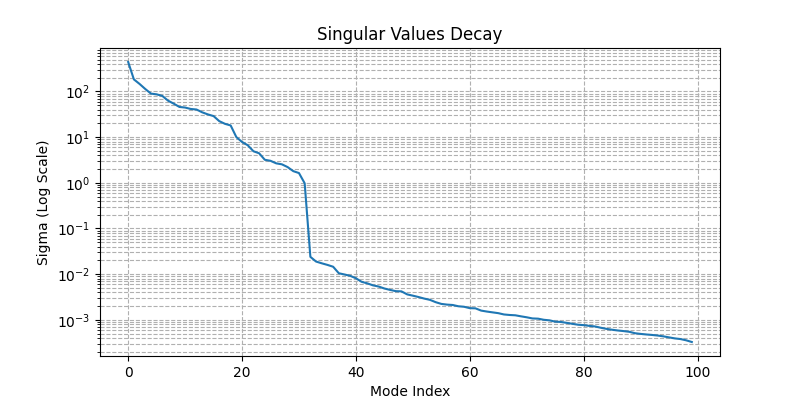
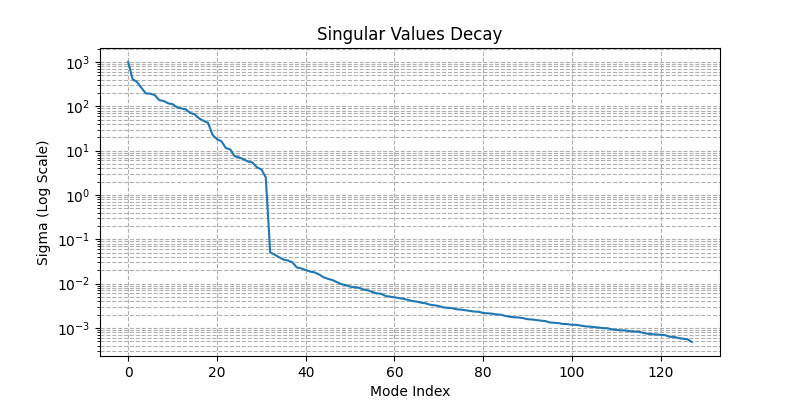
new dataset

Changed region(s): [[0.0625, 0.12, 0.9062, 0.96]]

diff --git a/wave_2D_matlab_reference.m b/wave_2D_matlab_reference.m
@@ -8,8 +8,8 @@ tlist = linspace(0, t_f, 100);   % Nt time steps
 Nt = numel(tlist);
 
 % Dataset parameters
-N_samples = 100;                  % randomized ICs
-Nx = 50; Ny = 50;               % uniform query grid
+N_samples = 128;                  % randomized ICs
+Nx = 100; Ny = 100;               % uniform query grid
 K = 4; L = 4;                     % Fourier modes for IC synthesis
 
 % Grids for storage and visualization
@@ -44,8 +44,9 @@ specifyCoefficients(model, m = m, d = d * results.M, c = wave_speed^2, a = a, f 
 
 mesh = model.Mesh;
 
-% Preallocate storage for displacement over space-time for all samples
+% Preallocate storage for displacement and velocity over space-time for all samples
 U_data = zeros(Nx, Ny, Nt, N_samples);
+V_data = zeros(Nx, Ny, Nt, N_samples);
 
 cpu_time_start = cputime;
 for sample_id = 1:N_samples
@@ -61,6 +62,27 @@ for sample_id = 1:N_samples
         u_grid = interpolateSolution(result, Xq(:), Yq(:), ti);
         U_data(:, :, ti, sample_id) = reshape(u_grid, Ny, Nx)';
     end
+    
+    % Compute velocity via temporal finite differences on displacement
+    for ti = 1:Nt
+        if ti == 1
+            % Forward difference for first time step
+            u_curr = reshape(interpolateSolution(result, Xq(:), Yq(:), ti), Ny, Nx)';
+            u_next = reshape(interpolateSolution(result, Xq(:), Yq(:), ti+1), Ny, Nx)';
+            v_grid = (u_next - u_curr) / (tlist(ti+1) - tlist(ti));
+        elseif ti == Nt
+            % Backward difference for last time step
+            u_curr = reshape(interpolateSolution(result, Xq(:), Yq(:), ti), Ny, Nx)';
+            u_prev = reshape(interpolateSolution(result, Xq(:), Yq(:), ti-1), Ny, Nx)';
+            v_grid = (u_curr - u_prev) / (tlist(ti) - tlist(ti-1));
+        else
+            % Central difference for interior time steps
+            u_next = reshape(interpolateSolution(result, Xq(:), Yq(:), ti+1), Ny, Nx)';
+            u_prev = reshape(interpolateSolution(result, Xq(:), Yq(:), ti-1), Ny, Nx)';
+            v_grid = (u_next - u_prev) / (tlist(ti+1) - tlist(ti-1));
+        end
+        V_data(:, :, ti, sample_id) = v_grid;
+    end
 
     fprintf('Finished sample %d/%d\n', sample_id, N_samples);
 end
@@ -68,7 +90,7 @@ cpu_time_end = cputime - cpu_time_start
 
 % Save dataset to script directory
 script_dir = fileparts(mfilename('fullpath'));
-save(fullfile(script_dir, 'data', 'test_cases.mat'), 'U_data', 'x_grid', 'y_grid', 'tlist', '-v7.3');
+save(fullfile(script_dir, 'data', 'test_cases.mat'), 'U_data', 'V_data', 'x_grid', 'y_grid', 'tlist', '-v7.3');
 
 % Visualize three random samples at mid time
 mid_idx = round(Nt / 2);

diff --git a/pretrain_trunk.py b/pretrain_trunk.py
@@ -42,13 +42,34 @@ sys.stderr = sys.stdout
 
 # --- CONFIGURATION ---
 SVD_PATH = os.path.join(SCRIPT_DIR, 'data', 'svd_basis_data.npy')
-MODEL_SAVE_PATH = os.path.join(LOG_DIR, 'pretrained_trunk_p64.pth')
-RANK = 64                # We limit to 64 for this test run
+MODEL_SAVE_PATH = os.path.join(LOG_DIR, 'pretrained_trunk_p128.pth')
+RANK = 128                # We limit to 128 for this test run
 TRUNK_HIDDEN = 300       # Hidden layer size for Trunk
 TRUNK_N_LAYERS = 6       # Number of hidden layers
 BATCH_SIZE = 10000       # Large batch for fast training
 EPOCHS = 2000
 LR = 1e-3
+
+# Save configuration to log directory
+config_dict = {
+    'timestamp': timestamp,
+    'svd_path': SVD_PATH,
+    'model_save_path': MODEL_SAVE_PATH,
+    'rank': RANK,
+    'trunk_hidden': TRUNK_HIDDEN,
+    'trunk_n_layers': TRUNK_N_LAYERS,
+    'batch_size': BATCH_SIZE,
+    'epochs': EPOCHS,
+    'lr': LR,
+    'device': str(torch.device("cuda" if torch.cuda.is_available() else "cpu")),
+    'train_test_split': 0.9
+}
+
+import json
+config_path = os.path.join(LOG_DIR, 'config.json')
+with open(config_path, 'w') as f:
+    json.dump(config_dict, f, indent=4)
+print(f"Configuration saved to {config_path}\n")
 
 # --- 2. DATA LOADING ---
 print(f"Loading SVD data from {SVD_PATH}...")
@@ -105,6 +126,11 @@ fft_dict = {"input_dim": 3,
     "sigma_temporal_list": [0.10],
     "seed": 42}
 
+# Update config with FFT parameters
+config_dict['fft_trunk_args'] = fft_dict
+with open(config_path, 'w') as f:
+    json.dump(config_dict, f, indent=4)
+
 fft_trunk = FourierFeatureTransform(**fft_dict)
 trunk = TrunkNet(
     hidden_dim=TRUNK_HIDDEN,
@@ -113,10 +139,13 @@ trunk = TrunkNet(
     activation=nn.Tanh(),
     fft_transform=fft_trunk
 ).to(device)
+
 optimizer = optim.Adam(trunk.parameters(), lr=LR)
 scheduler = optim.lr_scheduler.StepLR(optimizer, step_size=500, gamma=0.5)
 criterion = nn.MSELoss()
 scaler = GradScaler(enabled=device.type == "cuda")
+
+
 
 print("Starting Trunk Pre-training...")
 train_loss_history = []
